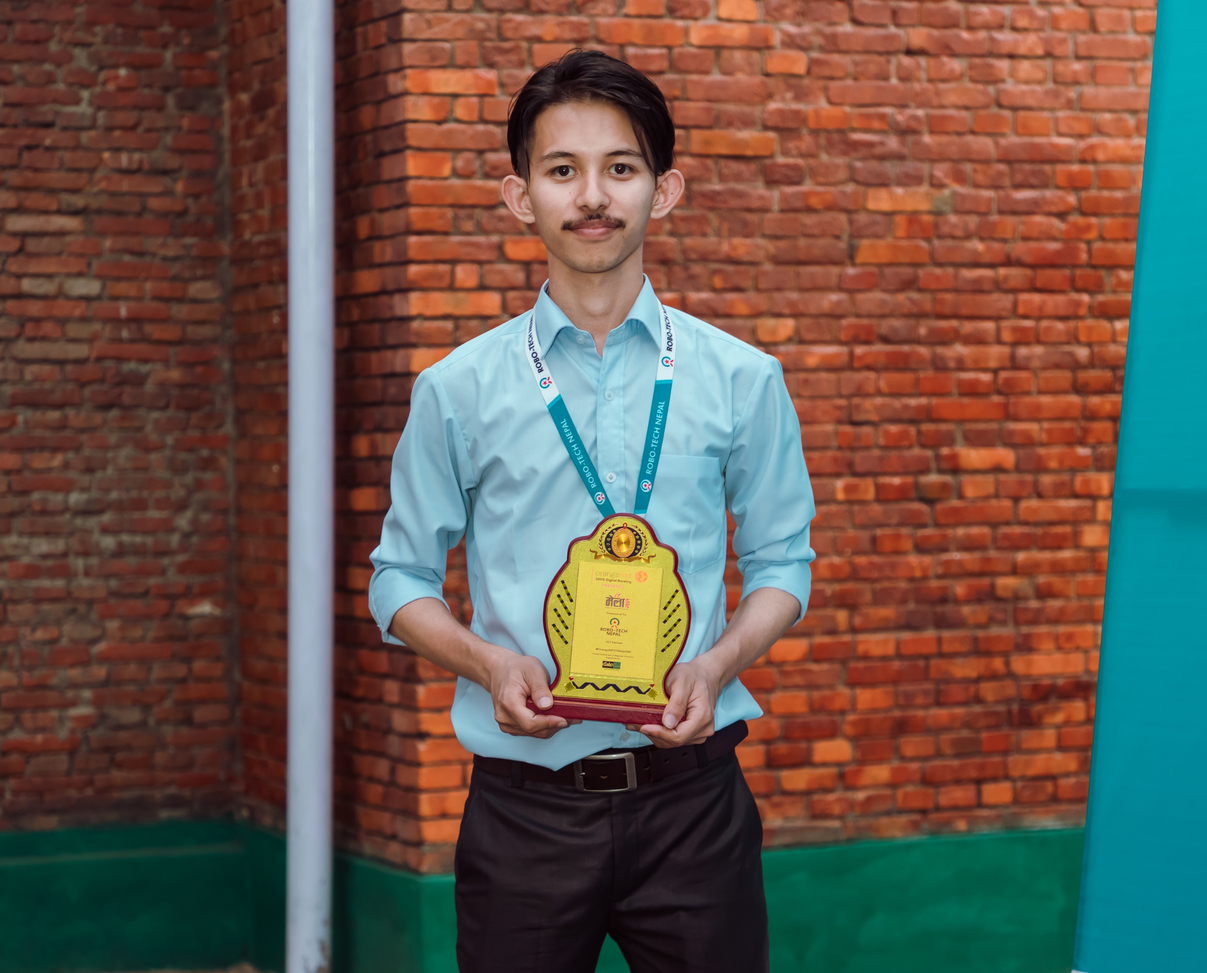
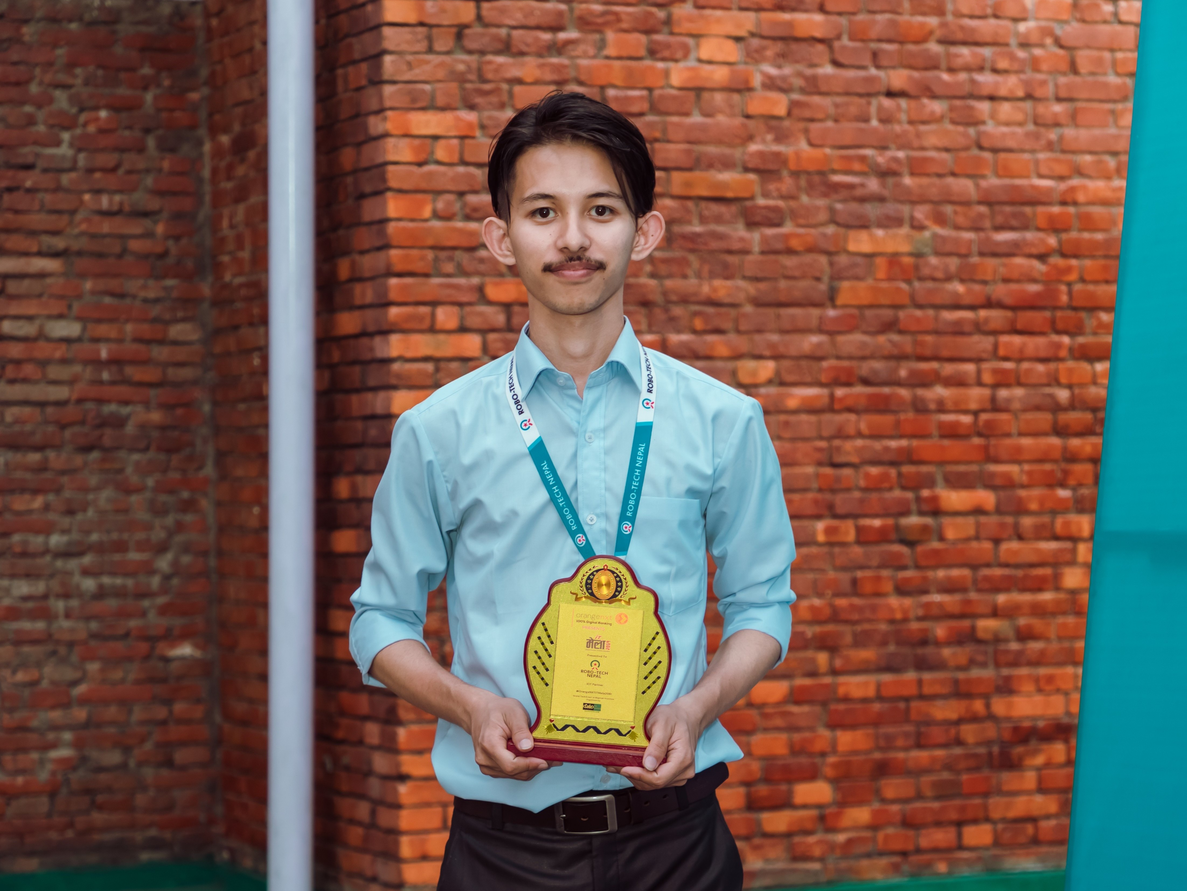
Image Size Fixed, Placeholder added in textarea

diff --git a/index.html b/index.html
@@ -220,7 +220,7 @@
                 <form action="" class="contact__form" id="contact-form">
                     <input type="text" placeholder="Name" class="contact__input" name="name">
                     <input type="email" placeholder="Email" class="contact__input" name="email">
-                    <textarea name="message" id="" cols="0" rows="10" class="contact__input"></textarea>
+                    <textarea name="message" id="" cols="0" rows="10" class="contact__input" placeholder="Message"></textarea>
                     <input type="submit" value="Message" class="contact__button button">
                 </form>
             </div>
@@ -247,29 +247,6 @@
 
     <!--===== MAIN JS =====-->
     <script src="assets/js/main.js"></script>
-    <!-- ====Email JS ==== -->
-    <!-- <script src="https://cdn.emailjs.com/dist/email.min.js"></script>
-
-    <script>
-  // Step 2: Initialize EmailJS with your Public Key
-  (function () {
-    emailjs.init("BNYzF92ZQcZx8KQ7l"); 
-  })();
-
-  // Step 3: Handle form submission
-  document.getElementById("contact-form").addEventListener("submit", function (event) {
-    event.preventDefault(); // Prevents page reload
-
-    emailjs.sendForm("service_squ81qh", "template_4x8pr4v", this)
-      .then(() => {
-        alert("Message sent successfully!");
-      }, (error) => {
-        alert("Failed to send message: " + JSON.stringify(error));
-      });
-  });
-
-
-</script> -->
 
     <script src="https://cdn.emailjs.com/dist/email.min.js"></script>
     <script src="assets/js/contact.js"></script>
